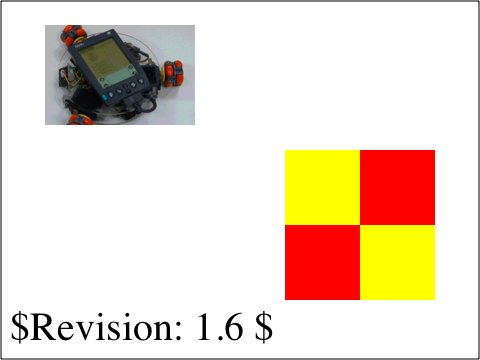
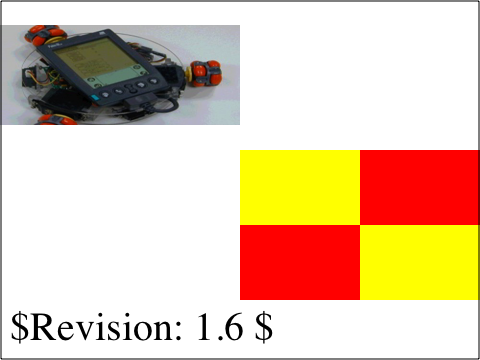
Reviewed by Darin.
http://bugs.webkit.org/show_bug.cgi?id=12125
        overflow attribute of the symbol element not respected

        Copy the attribute map to the cloned node so the overflow on
        the symbol is respected.

git-svn-id: https://svn.webkit.org/repository/webkit/trunk@18643 268f45cc-cd09-0410-ab3c-d52691b4dbfc

Changed region(s): [[0.0, 0.0611, 0.5, 0.3667], [0.9062, 0.3972, 1.0, 0.8556], [0.5, 0.3972, 0.5938, 0.8556]]

diff --git a/WebCore/ksvg2/svg/SVGUseElement.cpp b/WebCore/ksvg2/svg/SVGUseElement.cpp
@@ -113,6 +113,7 @@ void SVGUseElement::closeRenderer()
             dummy->setAttribute(SVGNames::viewBoxAttr, symbolViewBox);
         }
         target->cloneChildNodes(dummy.get());
+        *dummy->attributes() = *target->attributes();
 
         RefPtr<SVGElement> dummy2 = new SVGDummyElement(SVGNames::gTag, document());
         dummy2->setAttribute(SVGNames::transformAttr, trans);
